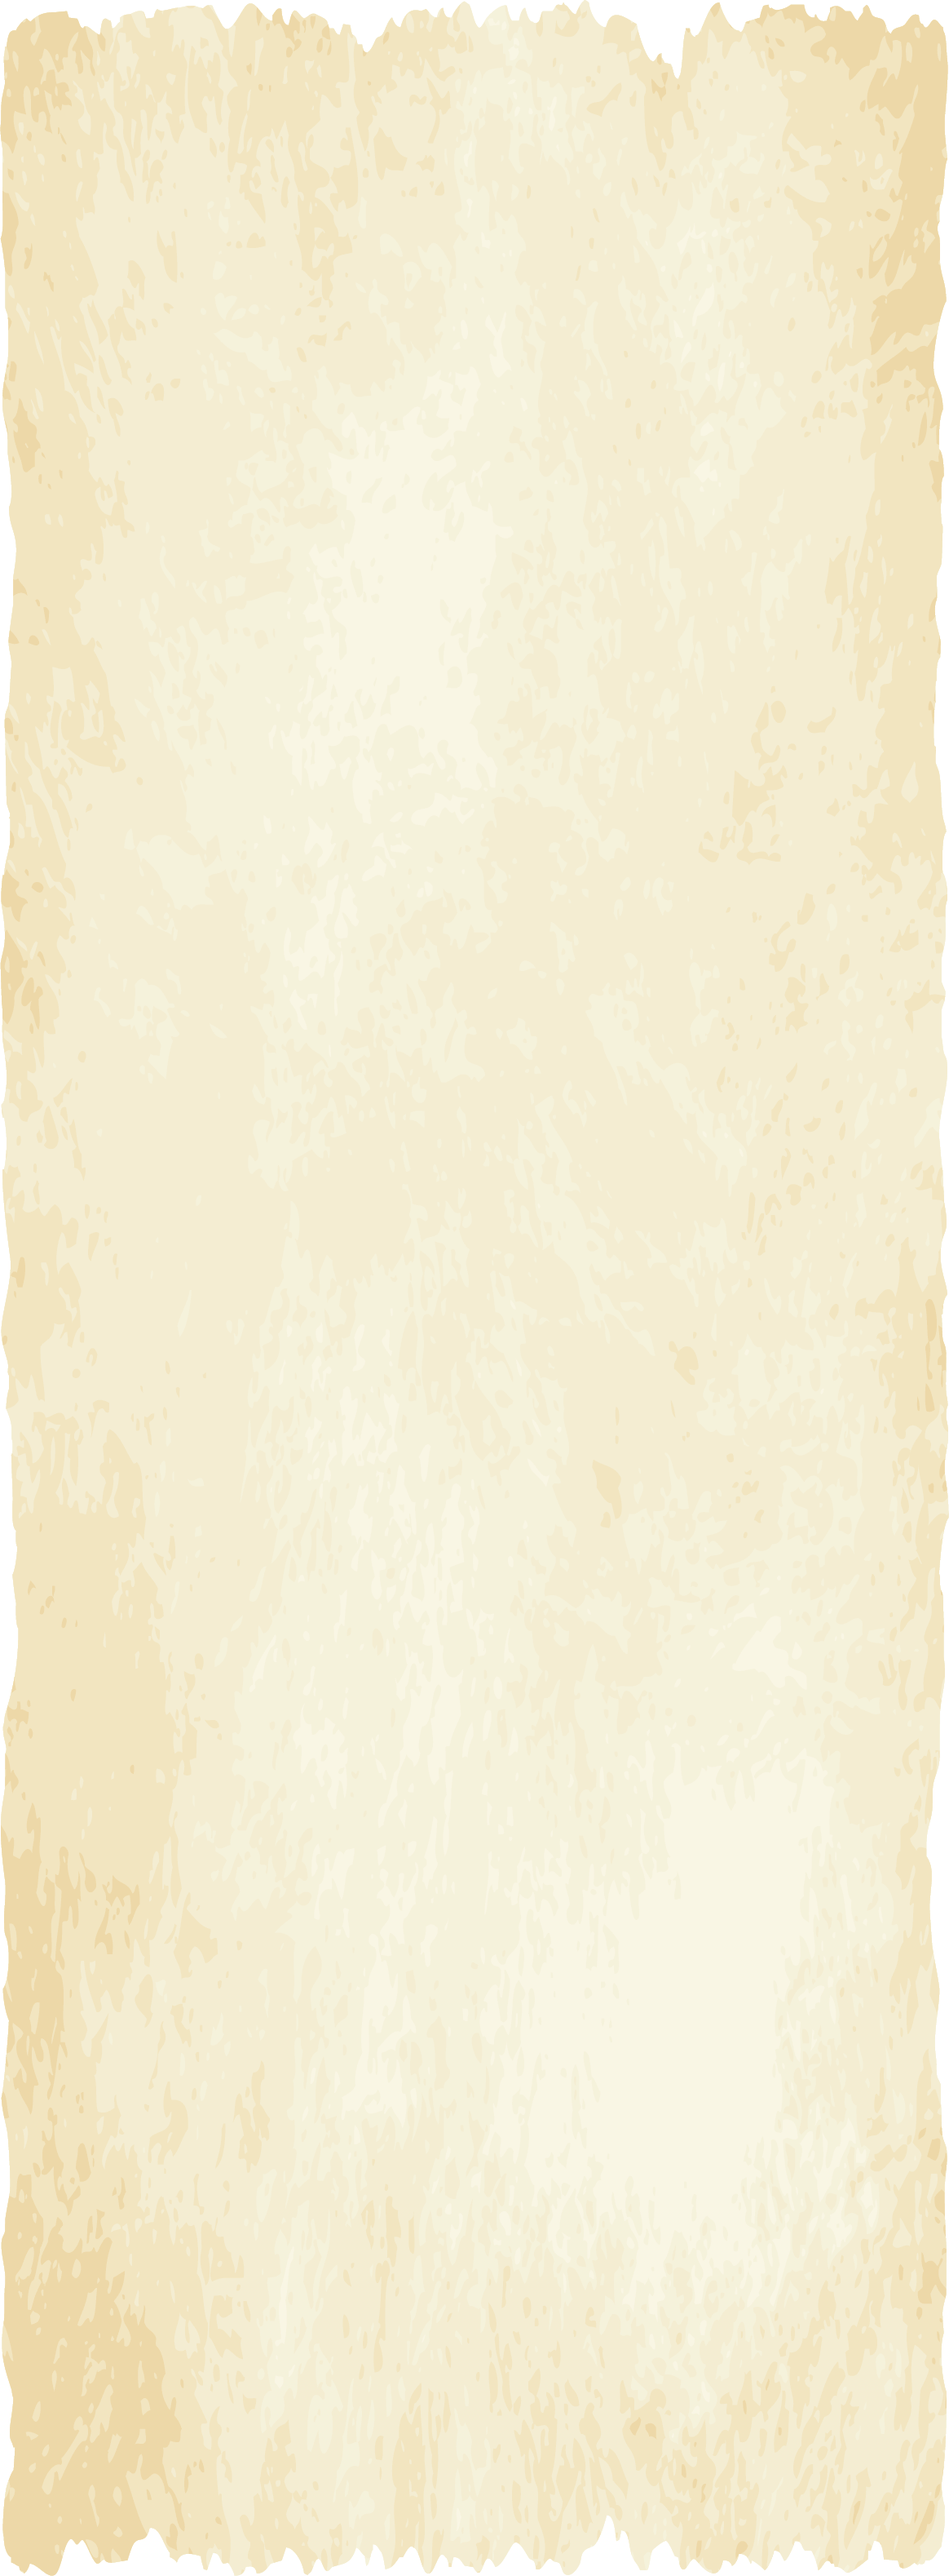
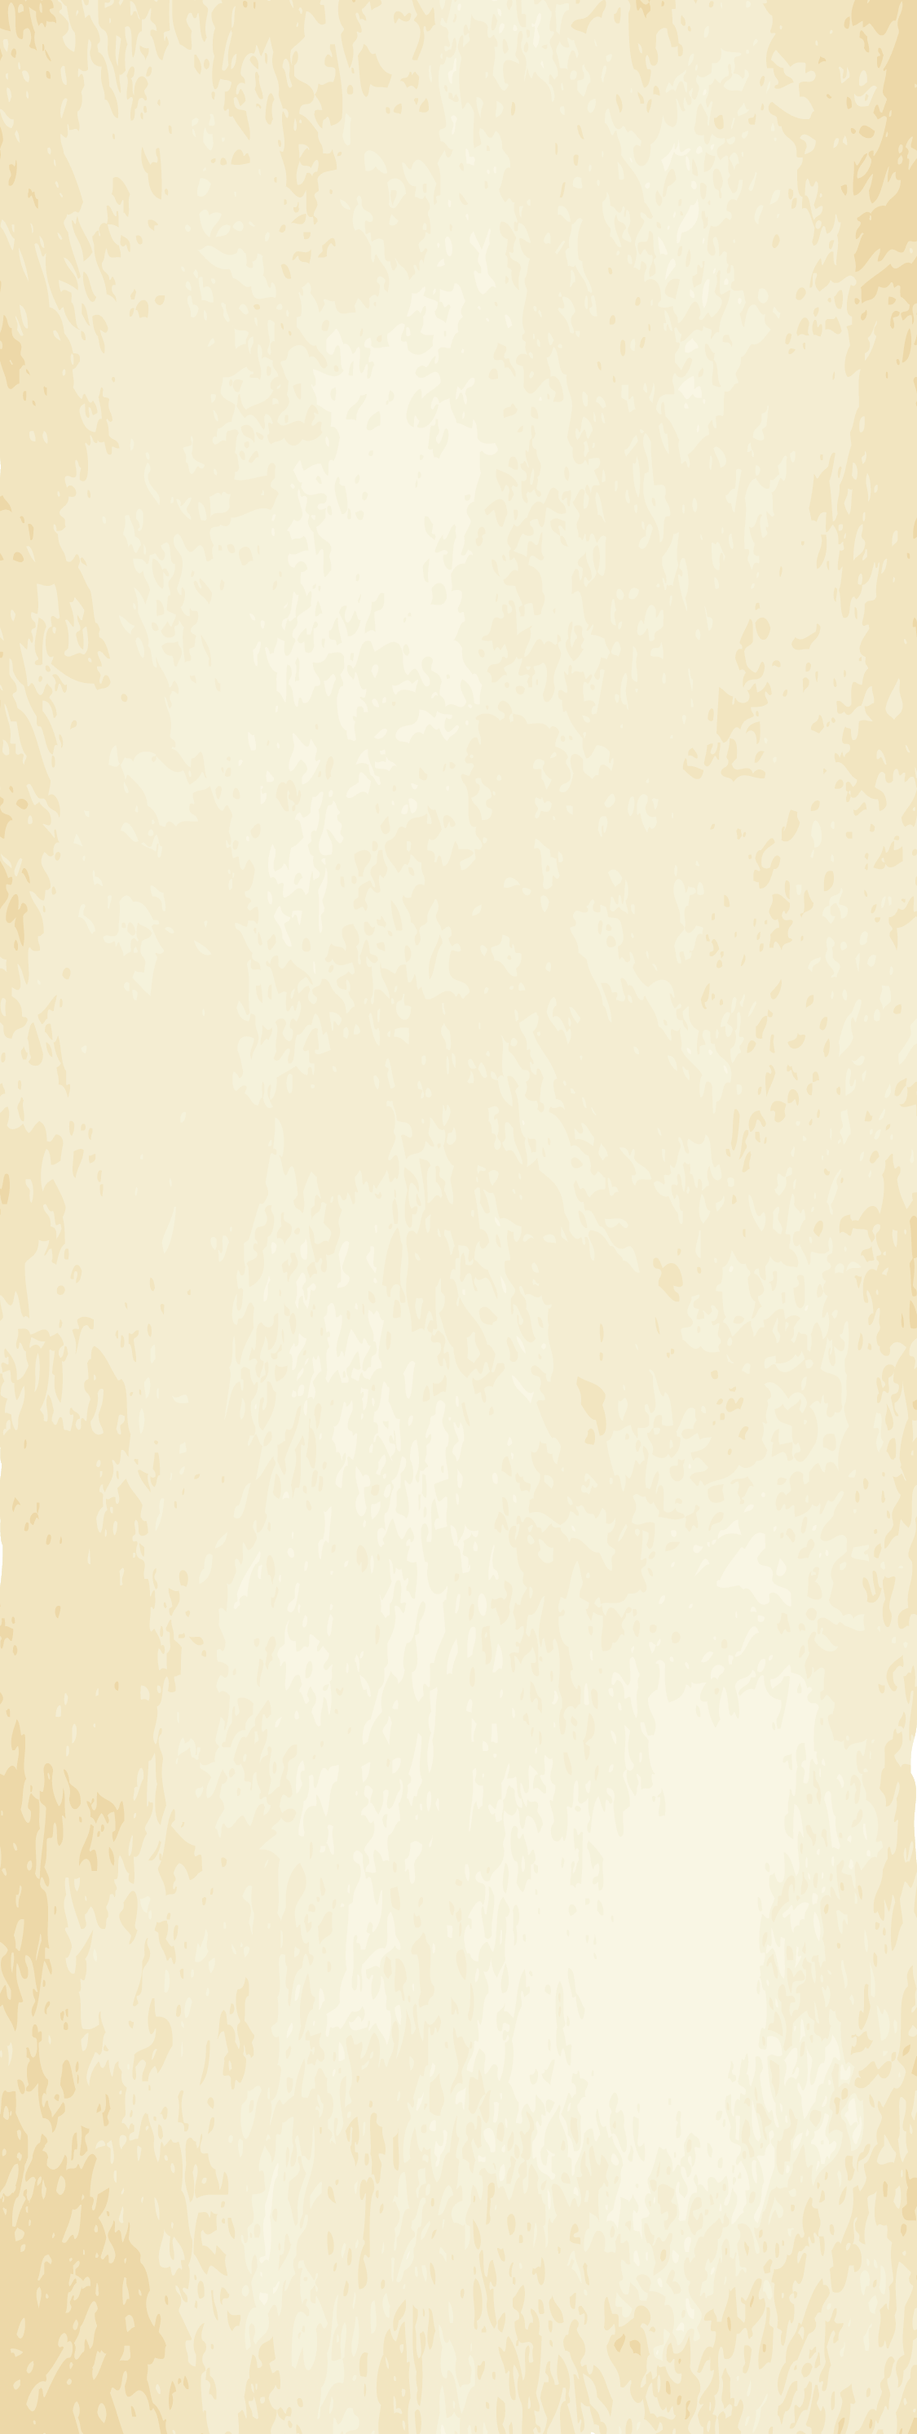
fix map bg

diff --git a/src/views/Map.vue b/src/views/Map.vue
@@ -110,10 +110,10 @@ const positions = [
 <style scoped>
 .main {
   width: 100%;
-  height: auto;
+  /* height: auto; */
   background: url(/images/5-map-bg.png) no-repeat;
-  background-size: 108% !important;
-  background-position: center center;
+  background-size: cover;
+  background-position: center;
   padding: 0.4rem 0;
 }
 .img {

diff --git a/src/views/Rule.vue b/src/views/Rule.vue
@@ -38,7 +38,7 @@ export default {
 <style scoped>
 .main {
   width: 100%;
-  height: 21.15rem;
+  /* height: 21.15rem; */
   background: url(/images/3-bg.png) no-repeat;
   background-size: 12.08rem 21.14rem;
   background-position: center center;
